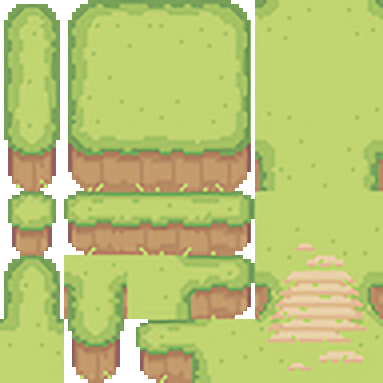
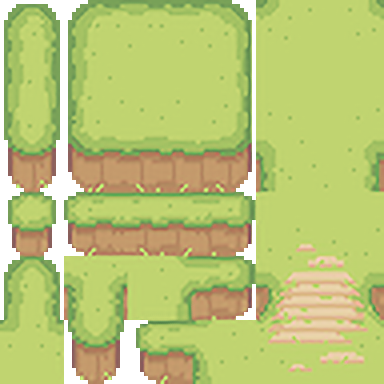
맵 수정전

diff --git a/js/tileMap.js b/js/tileMap.js
@@ -3528,7 +3528,7 @@ map.getTile2 = function (layer, col, row) {
   return whatTile;
 };
 
-Game._drawTilesLayer = function (layer) {
+Game._drawTilesLayer = function (layer, isWater = 0) {
   var startCol = Math.floor(this.camera.x / map.tsize);
   var endCol = startCol + this.camera.width / map.tsize + 1;
   var startRow = Math.floor(this.camera.y / map.tsize);
@@ -3543,11 +3543,16 @@ Game._drawTilesLayer = function (layer) {
       var x = (c - startCol) * map.tsize + offsetX;
       var y = (r - startRow) * map.tsize + offsetY;
 
+      let waterFlow = 0;
+      if (isWater) {
+        waterFlow = Math.floor((new Date().getTime() / 500) % 4);
+        console.log(waterFlow);
+      }
       if (tile !== undefined) {
         // 0 => empty tile
         this.ctx.drawImage(
           this[tile.img], // image
-          tile.x * tile.tileSize, // source x
+          (tile.x + waterFlow) * tile.tileSize, // source x
           tile.y * tile.tileSize, // source y
           tile.tileSize, // source width
           tile.tileSize, // source height
@@ -3564,7 +3569,7 @@ Game._drawTilesLayer = function (layer) {
 
 Game._drawTiles = function (z) {
   if (z === 1) {
-    Game._drawTilesLayer(0);
+    Game._drawTilesLayer(0, 1);
     Game._drawTilesLayer(1);
     Game._drawTilesLayer(2);
     Game._drawTilesLayer(3);
@@ -3572,8 +3577,8 @@ Game._drawTiles = function (z) {
     Game._drawTilesLayer(5);
   } else if (z === 2) {
     Game._drawTilesLayer(6);
-    Game._drawTilesLayer(7);
-    Game._drawTilesLayer(8);
+    // Game._drawTilesLayer(7);
+    // Game._drawTilesLayer(8);
   }
 };
 
@@ -3600,4 +3605,4 @@ Game._drawTiles = function (z) {
 //   const test = [map.MaxRows, map.MaxCols];
 //   return test;
 // }
-// console.log(test());
+// console.log(test());;

diff --git a/logic-grid.js b/logic-grid.js
@@ -982,7 +982,7 @@ Game.render = function () {
   // draw map background layer
   // this._drawLayer(0);
   this._drawTiles(1);
-  this._drawRect();
+  // this._drawRect();
 
   this._playersDraw();
   // draw main character
@@ -998,7 +998,7 @@ Game.render = function () {
   // draw map top layer
   // this._drawLayer(1);
 
-  this._drawGrid();
+  // this._drawGrid();
   this._drawNameBox();
   this._text();
 };
